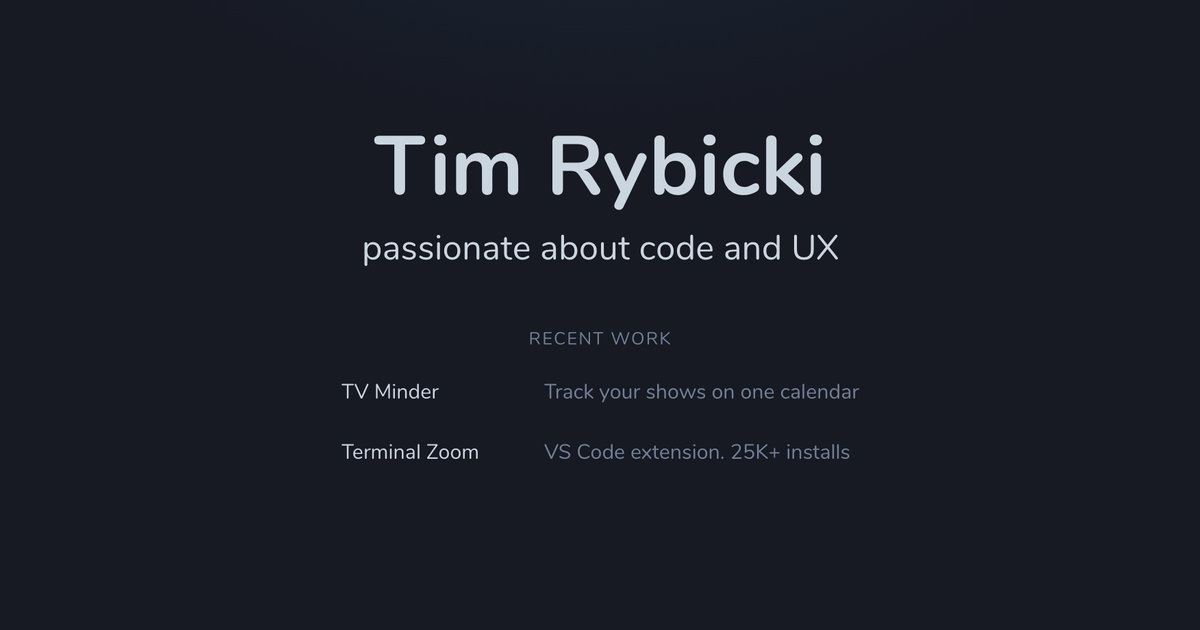
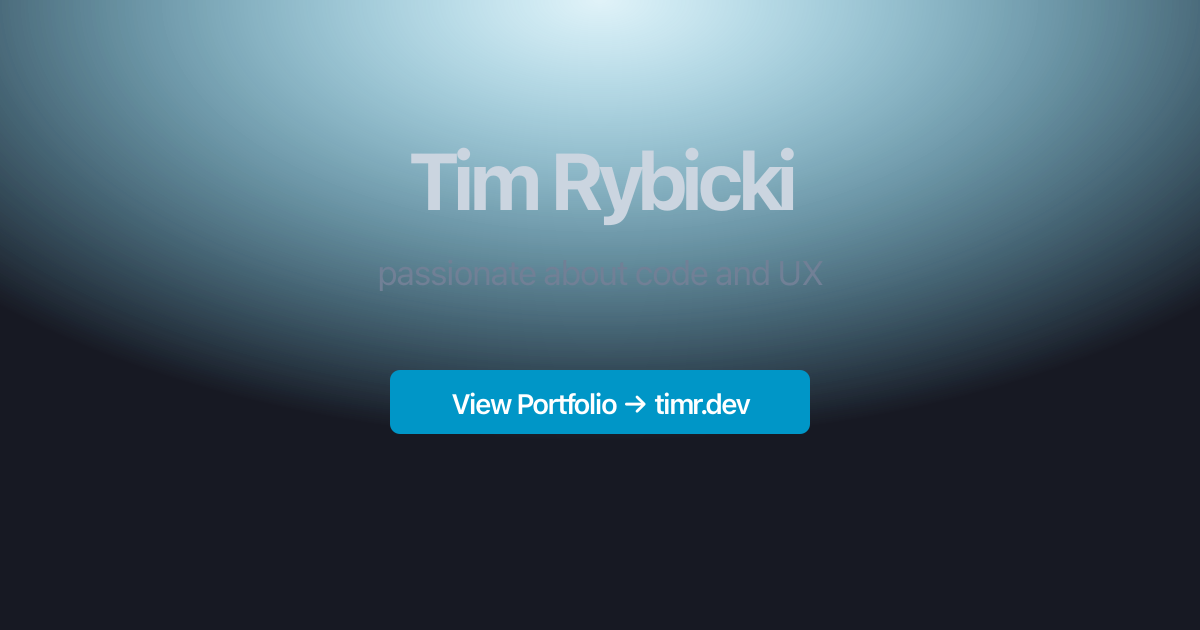
Fix SEO issues

diff --git a/src/components/SEO.js b/src/components/SEO.js
@@ -3,8 +3,8 @@ import { Helmet } from 'react-helmet';
 import { useStaticQuery, graphql } from 'gatsby';
 import { useLocation } from '@reach/router';
 
-const SITE_URL = 'https://timr.dev';
-const SITE_NAME = 'Tim Rybicki';
+const OG_IMAGE_WIDTH = 1200;
+const OG_IMAGE_HEIGHT = 630;
 
 function SEO({ description, title }) {
   const { pathname } = useLocation();
@@ -15,16 +15,26 @@ function SEO({ description, title }) {
           description
           author
           title
+          seoTitle
+          siteName
           image
+          imageAlt
+          siteUrl
         }
       }
     }
   `);
 
-  const metaDescription = description || site.siteMetadata.description;
-  const staticImage = 'https://timr.dev/og-image.png';
-  const pageUrl = `${SITE_URL}${pathname}`;
-  const pageTitle = title ? `${title} | ${SITE_NAME}` : SITE_NAME;
+  const { siteMetadata } = site;
+  const metaDescription = description || siteMetadata.description;
+  const ogImage = `${siteMetadata.siteUrl}/${siteMetadata.image}`;
+  const pageUrl = `${siteMetadata.siteUrl}${pathname}`;
+  const isHomePage = pathname === '/' || pathname === '';
+  const pageTitle = isHomePage
+    ? siteMetadata.seoTitle
+    : title
+      ? `${title} | ${siteMetadata.siteName}`
+      : siteMetadata.siteName;
 
   return (
     <Helmet
@@ -33,6 +43,10 @@ function SEO({ description, title }) {
       }}
       title={pageTitle}
       meta={[
+        {
+          name: `description`,
+          content: metaDescription,
+        },
         {
           name: `keywords`,
           content: 'tim rybicki, software developer, portfolio, blog',
@@ -47,7 +61,11 @@ function SEO({ description, title }) {
         },
         {
           itemprop: `image`,
-          content: staticImage,
+          content: ogImage,
+        },
+        {
+          property: `og:site_name`,
+          content: siteMetadata.siteName,
         },
         {
           property: `og:url`,
@@ -67,7 +85,19 @@ function SEO({ description, title }) {
         },
         {
           property: `og:image`,
-          content: staticImage,
+          content: ogImage,
+        },
+        {
+          property: `og:image:alt`,
+          content: siteMetadata.imageAlt,
+        },
+        {
+          property: `og:image:width`,
+          content: String(OG_IMAGE_WIDTH),
+        },
+        {
+          property: `og:image:height`,
+          content: String(OG_IMAGE_HEIGHT),
         },
         {
           name: `twitter:card`,
@@ -83,7 +113,11 @@ function SEO({ description, title }) {
         },
         {
           name: `twitter:image`,
-          content: staticImage,
+          content: ogImage,
+        },
+        {
+          name: `twitter:image:alt`,
+          content: siteMetadata.imageAlt,
         },
       ]}
     ></Helmet>

diff --git a/scripts/generate-og-image.js b/scripts/generate-og-image.js
@@ -1,0 +1,34 @@
+const sharp = require('sharp');
+const path = require('path');
+
+const width = 1200;
+const height = 630;
+
+const svg = `
+<svg width="${width}" height="${height}" xmlns="http://www.w3.org/2000/svg">
+  <defs>
+    <radialGradient id="bg" cx="50%" cy="0%" r="70%">
+      <stop offset="0%" stop-color="rgba(0,150,199,0.12)"/>
+      <stop offset="100%" stop-color="#171923"/>
+    </radialGradient>
+  </defs>
+  <rect width="100%" height="100%" fill="url(#bg)"/>
+  <text x="600" y="210" text-anchor="middle" font-family="system-ui, -apple-system, sans-serif" font-size="80" font-weight="700" fill="#cbd5e0">Tim Rybicki</text>
+  <text x="600" y="285" text-anchor="middle" font-family="system-ui, -apple-system, sans-serif" font-size="34" fill="#718096">passionate about code and UX</text>
+  <rect x="390" y="370" width="420" height="64" rx="10" fill="#0096c7"/>
+  <text x="600" y="414" text-anchor="middle" font-family="system-ui, -apple-system, sans-serif" font-size="28" font-weight="600" fill="#ffffff">View Portfolio → timr.dev</text>
+</svg>
+`;
+
+const outputPath = path.join(__dirname, '..', 'static', 'og-image.png');
+
+sharp(Buffer.from(svg))
+  .png()
+  .toFile(outputPath)
+  .then(info => {
+    console.log(`Generated ${outputPath} (${info.width}x${info.height})`);
+  })
+  .catch(err => {
+    console.error(err);
+    process.exit(1);
+  });

diff --git a/gatsby-config.js b/gatsby-config.js
@@ -2,9 +2,12 @@ module.exports = {
   siteMetadata: {
     title: `Tim Rybicki`,
     subtitle: `passionate about code and UX`,
-    description: `View my latest projects and blog posts centering around web development`,
+    seoTitle: `Tim Rybicki — Software Developer Portfolio & Blog`,
+    description: `Explore projects and articles by Tim Rybicki, a software developer passionate about code, UX, and building useful products like TV Minder and Terminal Zoom.`,
     author: `Tim Rybicki`,
+    siteName: `Tim Rybicki`,
     image: 'og-image.png',
+    imageAlt: `Tim Rybicki — passionate about code and UX. View portfolio at timr.dev`,
     siteUrl: 'https://timr.dev',
   },
   plugins: [
@@ -25,6 +28,7 @@ module.exports = {
     },
     `gatsby-transformer-sharp`,
     `gatsby-plugin-sharp`,
+    `gatsby-plugin-image`,
     `gatsby-plugin-emotion`,
     {
       resolve: '@chakra-ui/gatsby-plugin',

diff --git a/src/pages/index.js b/src/pages/index.js
@@ -5,7 +5,7 @@ import SEO from '../components/SEO';
 
 const IndexPage = () => (
   <Layout>
-    <SEO title="Home" />
+    <SEO />
     <Landing />
   </Layout>
 );
